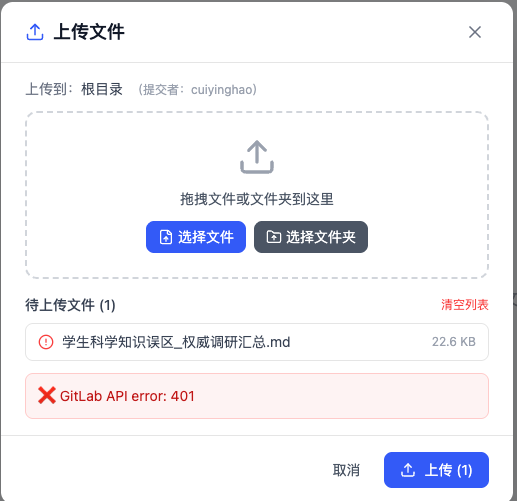
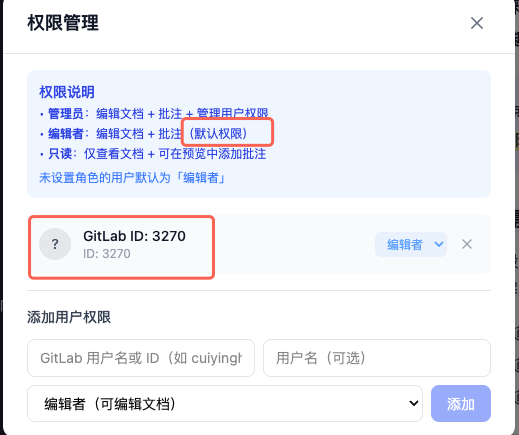
[AI Session] 2026-06-24T03:21:22.002Z
User Prompt:
截图：
1. （默认权限）的文字应该放在只读那里
2. 权限管理添加的用户，应该显示字母用户名。我切换了一次这个用户的权限，显示的就变成数字id了

Changes:
AI code modifications based on user request

diff --git a/app/api/roles/route.ts b/app/api/roles/route.ts
@@ -50,8 +50,8 @@ export async function GET(request: Request) {
       });
 
       if (!role) {
-        // Default: users without explicit role are editors (can edit and annotate)
-        return NextResponse.json({ role: 'editor', isDefault: true });
+        // Default: users without explicit role are viewers (read-only + can annotate)
+        return NextResponse.json({ role: 'viewer', isDefault: true });
       }
 
       return NextResponse.json({ role: role.role, isDefault: false, userName: role.user_name });
@@ -83,15 +83,22 @@ export async function POST(request: Request) {
       return NextResponse.json({ error: 'Invalid role. Must be: owner, editor, or viewer' }, { status: 400 });
     }
 
+    // If userName is not provided (e.g., when just updating role), preserve existing user_name
+    const upsertData: Record<string, unknown> = {
+      project_id: projectId,
+      gitlab_id: parseInt(gitlabId),
+      role,
+      updated_at: new Date().toISOString(),
+    };
+
+    // Only set user_name if explicitly provided (non-empty)
+    if (userName) {
+      upsertData.user_name = userName;
+    }
+
     const result = await upsert<UserRole>(
       TABLE,
-      {
-        project_id: projectId,
-        gitlab_id: parseInt(gitlabId),
-        user_name: userName || '',
-        role,
-        updated_at: new Date().toISOString(),
-      },
+      upsertData,
       ['project_id', 'gitlab_id']
     );
 

diff --git a/app/components/role-manager.tsx b/app/components/role-manager.tsx
@@ -116,12 +116,12 @@ export default function RoleManager({ projectId, isOpen, onClose }: RoleManagerP
     }
   };
 
-  const handleUpdateRole = async (gitlabId: number, role: string) => {
+  const handleUpdateRole = async (gitlabId: number, role: string, userName?: string) => {
     try {
       await fetch('/api/roles', {
         method: 'POST',
         headers: { 'Content-Type': 'application/json' },
-        body: JSON.stringify({ projectId, gitlabId, role }),
+        body: JSON.stringify({ projectId, gitlabId, role, userName }),
       });
       loadRoles();
     } catch (err) {
@@ -160,10 +160,10 @@ export default function RoleManager({ projectId, isOpen, onClose }: RoleManagerP
             <p className="font-medium mb-1">权限说明</p>
             <ul className="space-y-1 text-xs">
               <li>• <strong>管理员</strong>：编辑文档 + 批注 + 管理用户权限</li>
-              <li>• <strong>编辑者</strong>：编辑文档 + 批注（默认权限）</li>
-              <li>• <strong>只读</strong>：仅查看文档 + 可在预览中添加批注</li>
+              <li>• <strong>编辑者</strong>：编辑文档 + 批注</li>
+              <li>• <strong>只读</strong>：仅查看文档 + 可在预览中添加批注（默认权限）</li>
             </ul>
-            <p className="mt-2 text-xs text-blue-500">未设置角色的用户默认为「编辑者」</p>
+            <p className="mt-2 text-xs text-blue-500">未设置角色的用户默认为「只读」</p>
           </div>
 
           {/* Current roles list */}
@@ -172,7 +172,7 @@ export default function RoleManager({ projectId, isOpen, onClose }: RoleManagerP
           ) : roles.length === 0 ? (
             <div className="text-center py-4 text-gray-400 text-sm">
               暂未设置任何用户权限<br />
-              <span className="text-xs">所有组成员默认为"编辑者"</span>
+              <span className="text-xs">所有组成员默认为「只读」</span>
             </div>
           ) : (
             <div className="space-y-2 mb-4">
@@ -192,7 +192,7 @@ export default function RoleManager({ projectId, isOpen, onClose }: RoleManagerP
                   <div className="flex items-center gap-2">
                     <select
                       value={r.role}
-                      onChange={(e) => handleUpdateRole(r.gitlab_id, e.target.value)}
+                      onChange={(e) => handleUpdateRole(r.gitlab_id, e.target.value, r.user_name)}
                       className={`text-xs px-2 py-1 rounded-md border-0 ${ROLE_LABELS[r.role].color}`}
                     >
                       <option value="owner">管理员</option>
@@ -202,7 +202,7 @@ export default function RoleManager({ projectId, isOpen, onClose }: RoleManagerP
                     <button
                       onClick={() => handleRemoveRole(r.gitlab_id)}
                       className="p-1 rounded hover:bg-red-50 text-gray-400 hover:text-red-500"
-                      title="移除（恢复为默认编辑者）"
+                      title="移除（恢复为默认只读）"
                     >
                       <X className="w-4 h-4" />
                     </button>

diff --git a/app/p/[projectId]/doc/[...path]/page.tsx b/app/p/[projectId]/doc/[...path]/page.tsx
@@ -64,7 +64,7 @@ export default function DocPage() {
   const [tocPinned, setTocPinned] = useState(false);
 
   // 用户权限角色
-  const [userRole, setUserRole] = useState<'owner' | 'editor' | 'viewer'>('editor');
+  const [userRole, setUserRole] = useState<'owner' | 'editor' | 'viewer'>('viewer');
   const [roleLoaded, setRoleLoaded] = useState(false);
   const canEdit = userRole === 'owner' || userRole === 'editor';
   const canManageRoles = userRole === 'owner';
@@ -227,17 +227,17 @@ export default function DocPage() {
               // 这个项目没有任何角色配置 → 当前用户自动成为管理员
               setUserRole('owner');
             } else {
-              // 有人配置了角色但当前用户不在列表中 → 默认编辑者
-              setUserRole('editor');
+              // 有人配置了角色但当前用户不在列表中 → 默认只读
+              setUserRole('viewer');
             }
           } catch {
-            setUserRole('editor');
+            setUserRole('viewer');
           }
         }
       })
       .catch(() => {
-        // If role fetch fails, default to editor
-        setUserRole('editor');
+        // If role fetch fails, default to viewer (safest)
+        setUserRole('viewer');
       })
       .finally(() => setRoleLoaded(true));
   }, [projectId, currentUserId, status]);